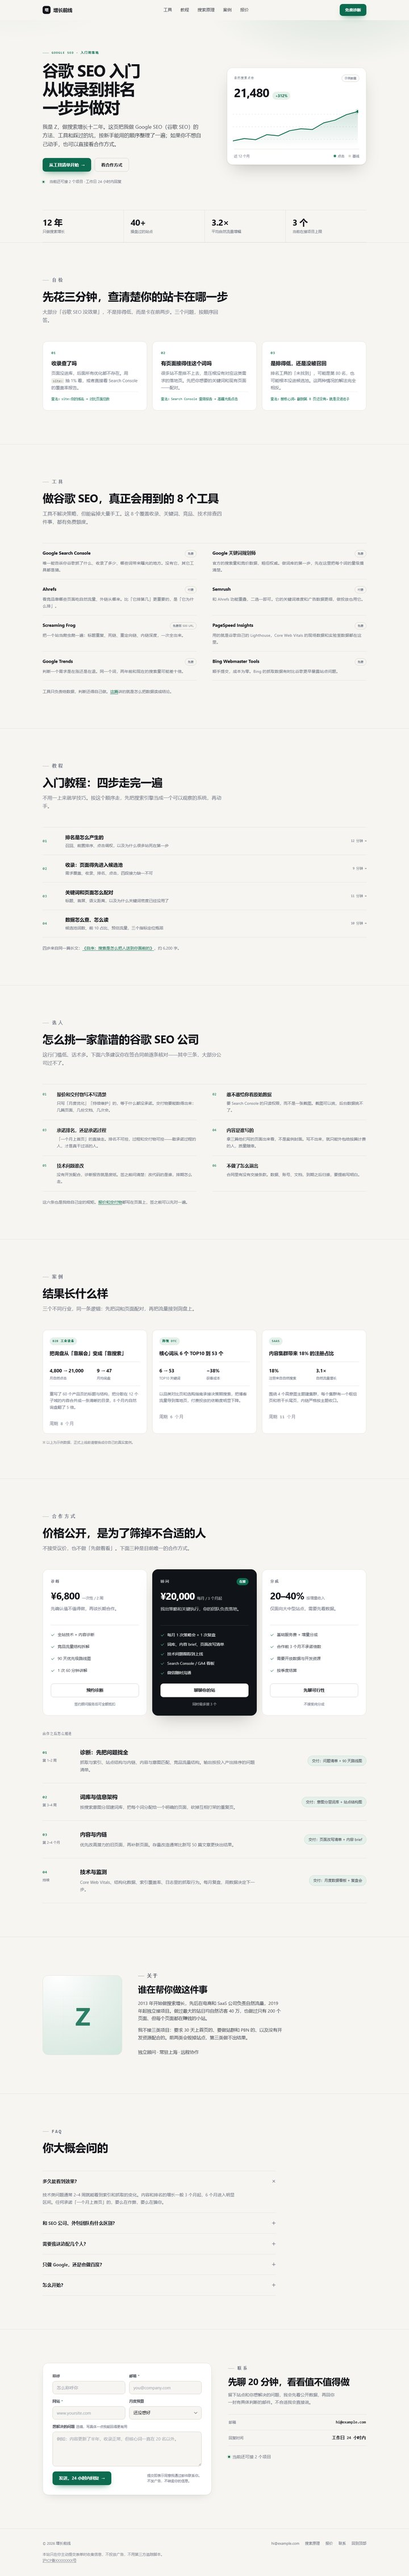
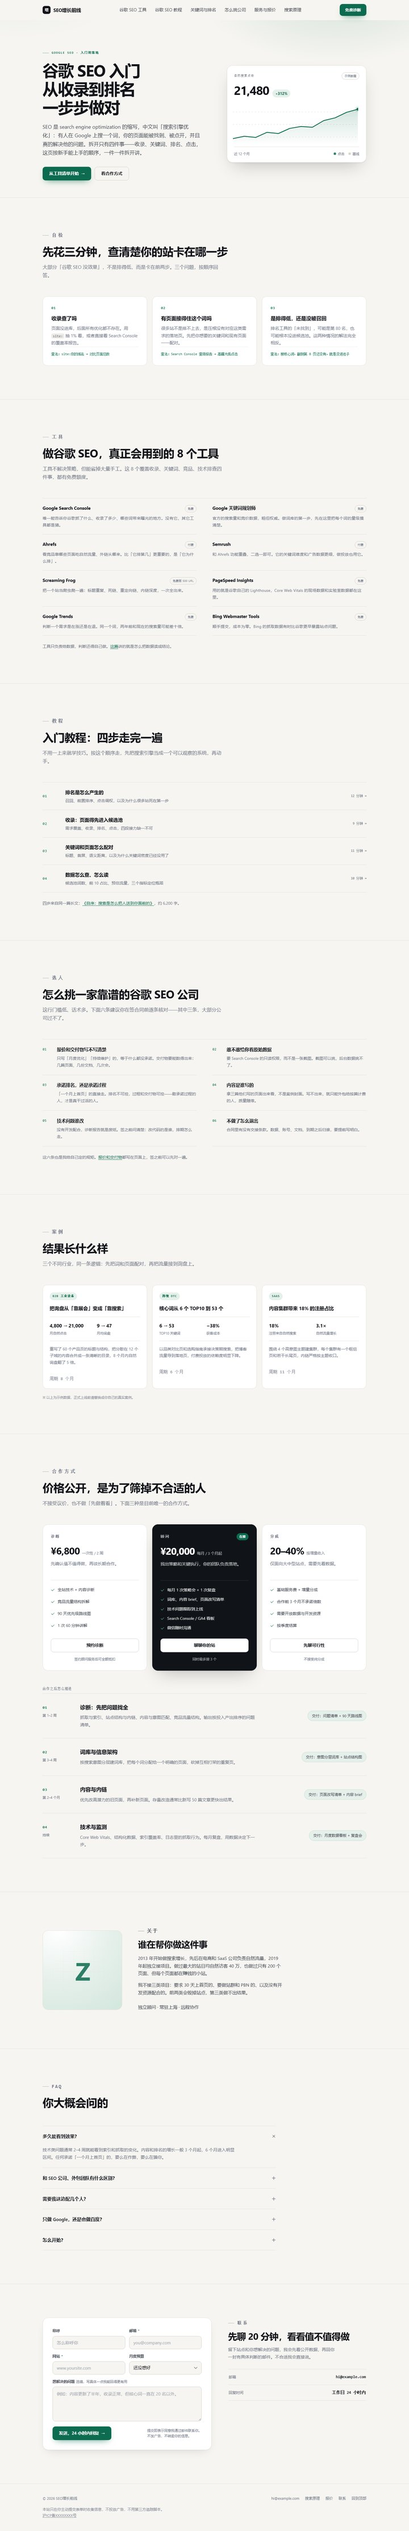
chore(brand): rename to SEO增长前线 and refresh og/preview images

diff --git a/site/index.html b/site/index.html
@@ -4,7 +4,7 @@
     <meta charset="utf-8" />
     <meta name="viewport" content="width=device-width, initial-scale=1" />
 
-    <title>谷歌 SEO 入门指南｜工具、教程与顾问服务 - 增长前线</title>
+    <title>谷歌 SEO 入门指南｜工具、教程与顾问服务 - SEO增长前线</title>
     <meta
       name="description"
       content="做谷歌 SEO 需要的工具、教程和查询方法，以及找谷歌 SEO 公司时的判断标准。附一次免费诊断。"
@@ -20,7 +20,7 @@
 
     <meta property="og:type" content="website" />
     <meta property="og:locale" content="zh_CN" />
-    <meta property="og:site_name" content="增长前线" />
+    <meta property="og:site_name" content="SEO增长前线" />
     <meta property="og:title" content="谷歌 SEO 入门指南｜工具、教程与顾问服务" />
     <meta
       property="og:description"
@@ -30,7 +30,7 @@
     <meta property="og:image" content="https://example.com/og.png" />
     <meta property="og:image:width" content="1200" />
     <meta property="og:image:height" content="630" />
-    <meta property="og:image:alt" content="增长前线 · 谷歌 SEO 入门指南" />
+    <meta property="og:image:alt" content="SEO增长前线 · 谷歌 SEO 入门指南" />
 
     <meta name="twitter:card" content="summary_large_image" />
     <meta name="twitter:title" content="谷歌 SEO 入门指南｜工具、教程与顾问服务" />
@@ -41,7 +41,7 @@
       {
         "@context": "https://schema.org",
         "@type": "ProfessionalService",
-        "name": "增长前线",
+        "name": "SEO增长前线",
         "url": "https://example.com",
         "email": "hi@example.com",
         "description": "谷歌 SEO 顾问服务，以及面向新手的工具清单与入门教程。",
@@ -107,9 +107,9 @@
     <!-- ===================== 顶部 ===================== -->
     <header class="site-header">
       <div class="container header-inner">
-        <a class="brand" href="/" aria-label="增长前线 首页">
+        <a class="brand" href="/" aria-label="SEO增长前线 首页">
           <span class="brand-mark" aria-hidden="true">增</span>
-          <span>增长前线</span>
+          <span>SEO增长前线</span>
         </a>
 
         <nav class="nav" aria-label="主导航">
@@ -786,7 +786,7 @@
     <footer class="site-footer">
       <div class="container">
         <div class="footer-inner">
-          <p>© <span id="year">2026</span> 增长前线</p>
+          <p>© <span id="year">2026</span> SEO增长前线</p>
           <div class="footer-links">
             <a href="mailto:hi@example.com">hi@example.com</a>
             <a href="/articles/how-search-works">搜索原理</a>

diff --git a/site/articles/how-search-works.html b/site/articles/how-search-works.html
@@ -20,7 +20,7 @@
 
     <meta property="og:type" content="article" />
     <meta property="og:locale" content="zh_CN" />
-    <meta property="og:site_name" content="增长前线" />
+    <meta property="og:site_name" content="SEO增长前线" />
     <meta property="og:title" content="SEO（搜索引擎优化）是怎么把网站送到谷歌第一页的" />
     <meta
       property="og:description"
@@ -47,7 +47,7 @@
         "dateModified": "2026-10-20",
         "inLanguage": "zh-CN",
         "author": { "@type": "Person", "name": "Z" },
-        "publisher": { "@type": "Organization", "name": "增长前线" },
+        "publisher": { "@type": "Organization", "name": "SEO增长前线" },
         "mainEntityOfPage": {
           "@type": "WebPage",
           "@id": "https://example.com/articles/how-search-works"
@@ -61,9 +61,9 @@
 
     <header class="site-header">
       <div class="container header-inner">
-        <a class="brand" href="/" aria-label="增长前线 首页">
+        <a class="brand" href="/" aria-label="SEO增长前线 首页">
           <span class="brand-mark" aria-hidden="true">增</span>
-          <span>增长前线</span>
+          <span>SEO增长前线</span>
         </a>
 
         <div class="article-nav">
@@ -526,7 +526,7 @@
     <footer class="site-footer">
       <div class="container">
         <div class="footer-inner">
-          <p>© <span id="year">2026</span> 增长前线</p>
+          <p>© <span id="year">2026</span> SEO增长前线</p>
           <div class="footer-links">
             <a href="mailto:hi@example.com">hi@example.com</a>
             <a href="/#pricing">报价</a>

diff --git a/site/404.html b/site/404.html
@@ -3,7 +3,7 @@
   <head>
     <meta charset="utf-8" />
     <meta name="viewport" content="width=device-width, initial-scale=1" />
-    <title>页面不存在｜增长前线</title>
+    <title>页面不存在｜SEO增长前线</title>
     <meta name="robots" content="noindex,nofollow" />
     <meta name="theme-color" content="#f6f5f1" />
     <link rel="icon" href="/favicon.svg" type="image/svg+xml" />

diff --git a/site/thanks.html b/site/thanks.html
@@ -3,7 +3,7 @@
   <head>
     <meta charset="utf-8" />
     <meta name="viewport" content="width=device-width, initial-scale=1" />
-    <title>已收到｜增长前线</title>
+    <title>已收到｜SEO增长前线</title>
     <meta name="robots" content="noindex,nofollow" />
     <meta name="theme-color" content="#f6f5f1" />
     <link rel="icon" href="/favicon.svg" type="image/svg+xml" />

diff --git a/tools/make-og.py b/tools/make-og.py
@@ -13,12 +13,12 @@ from pathlib import Path
 from PIL import Image, ImageDraw, ImageFont
 
 # ---------------- 改这里 ----------------
-BRAND = "增长前线"
-HEADLINE = ["让 Google 每天给你带来客户，", "而不只是一份报表"]
-KICKER = "GOOGLE SEO 顾问 · 出海与外贸"
-SUBLINE = "关键词 · 内容结构 · 技术底子 · 数据监测"
+BRAND = "SEO增长前线"
+HEADLINE = ["谷歌 SEO 入门：", "从收录到排名，一步步做对"]
+KICKER = "GOOGLE SEO · 入门到落地"
+SUBLINE = "工具 · 教程 · 关键词 · 排名 · 数据"
 FOOTER_LEFT = "example.com"
-FOOTER_RIGHT = "只接 3 个项目 · 24 小时内回复"
+FOOTER_RIGHT = "免费诊断 · 24 小时内回复"
 # ---------------------------------------
 
 W, H = 1200, 630
